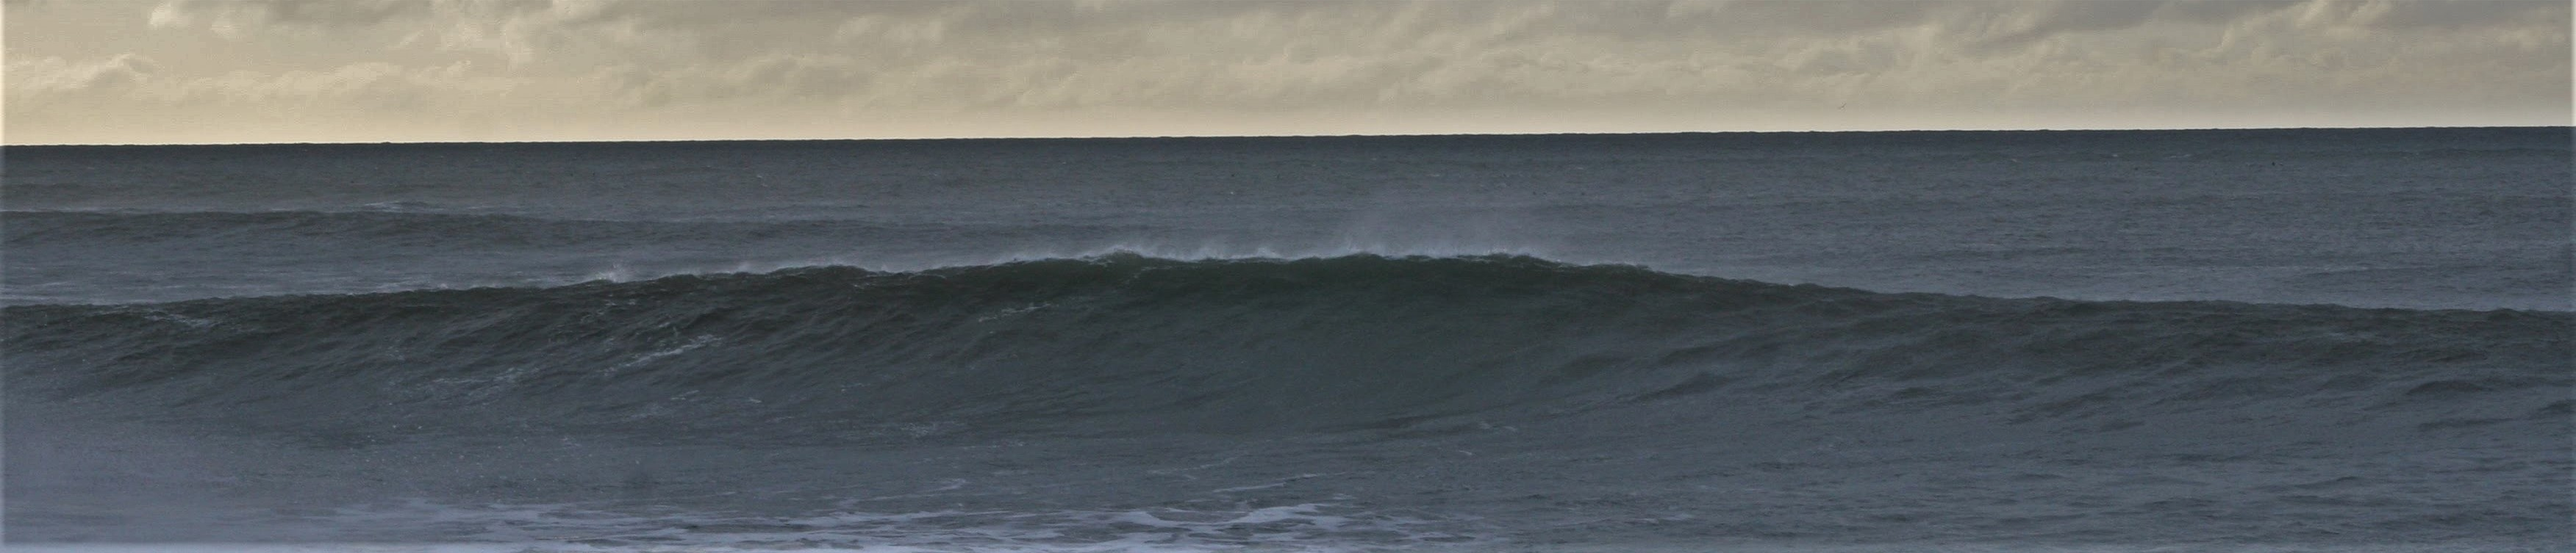
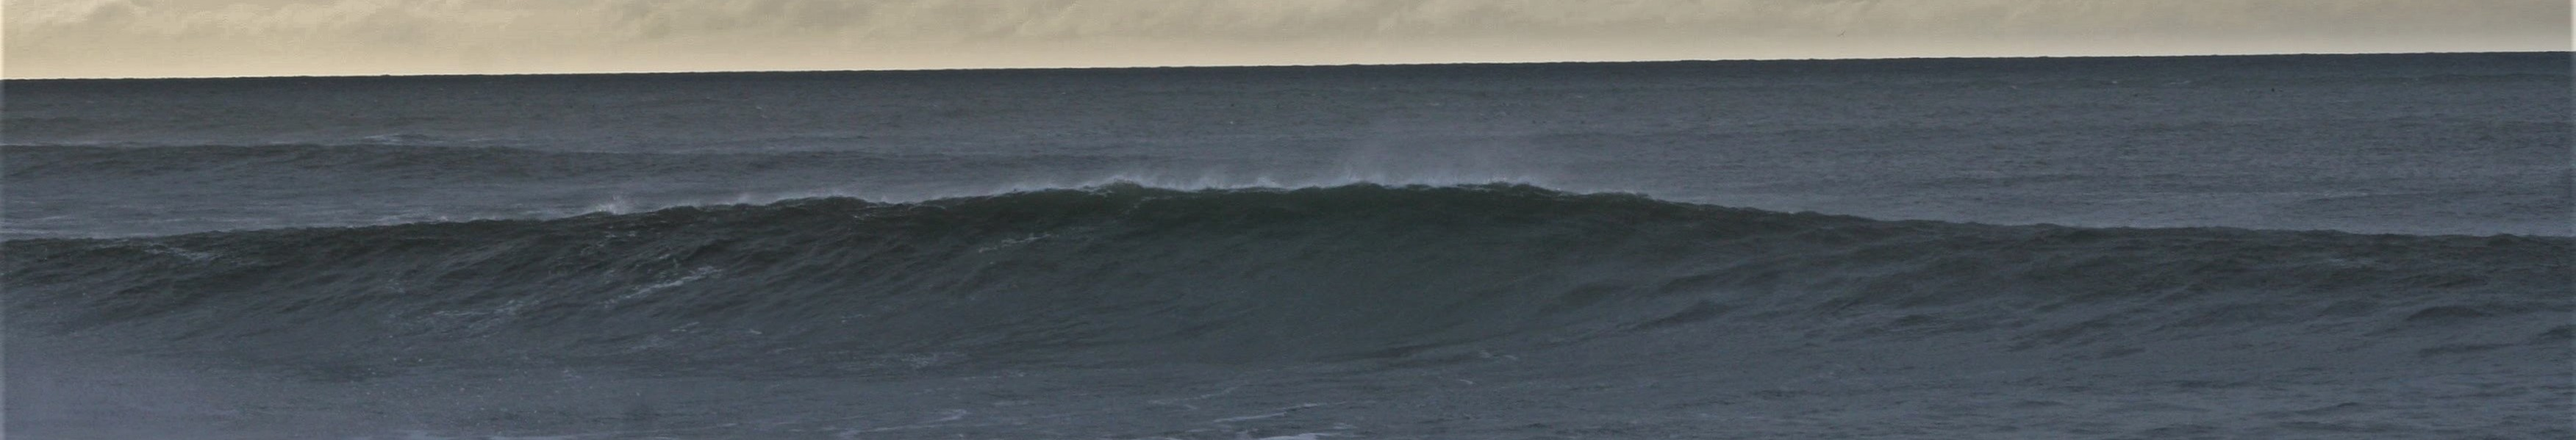
changes

diff --git a/index.html b/index.html
@@ -28,11 +28,11 @@ h1 {
     color: black;
     text-align: center;
 	font-family: Garamond;
-	font-size: 300%;
+    font-size: 10vh;
 	font-style: normal;
 	font-variant: small-caps;
 	font-weight: 700;
-	line-height: 42px;
+	line-height: 1vh;
     opacity: 1;
 }
 
@@ -40,11 +40,11 @@ h2 {
     color: black;
     text-align: center;
 	font-family: Garamond;
-	font-size: 150%;
+    font-size: 3vh;
 	font-style: normal;
 	font-variant: normal;
 	font-weight: 700;
-	line-height: 28.8px;
+	line-height: 3vh;
     opacity: 1;
 }
 
@@ -53,10 +53,18 @@ div.relative {
     clear:both; 
 }
 
-.img{
-   float: left;
-   margin-right: 1rem;
+img{
+    max-width: 100%;
+    max-height: 100%;
   }
+
+.imleft{
+        float: left;
+}
+
+.imright{
+        float: right;
+}
 
 body, html {
     width: 100%;
@@ -73,20 +81,17 @@ body, html {
    text-align: center;
 }
 
-.bg {
+div.wavehead {
     /* The image used */
-	background-image: url(IMG_4557.jpg);
-	text-align: center;
-
-
-    /* Full height */
-    width: 100%; 
-    height: 100vh;
-
-    /* Center and scale the image nicely */
-    background-position: top center;
+	background-image: url(IMG_4557b.jpg);
     background-repeat: no-repeat;
-    background-size: cover;
+    background-position: right center;
+    background-color: #D5D8DC;
+    border: 1px solid;
+    opacity: 1;
+    width: 98%;
+    height: 30vh;
+    background-size: contain;
 }
 
 div.transbox {
@@ -97,36 +102,41 @@ div.transbox {
   filter: alpha(opacity=40); /* For IE8 and earlier */
 }
 
+div.transbox p {
+  margin: 5%;
+  font-weight: bold;
+  color: #000000;
+  font-size: 44;
+   opacity: 1;
+}
+
 </style>
 </head>
 <body>
-<div class="bg">
+<div class="wavehead">
+    <img style="float:left;" src="Headshot_Humberston.jpg" alt="Josh Humberston"/>
+           <div margin:1rem"> <h1>Josh Humberston</h1>
+            <h2>
+            Ph.D. Student, Oceanography<br>
+            University of New Hampshire <br> 
+            Durham, NH <br>
+            This website is a work in progress (last updated: May 6, 2018)
+         </h2></div>
 
-<div class="transbox" style="float:left;margin:1rem">
-<h1>Josh Humberston</h1>
-<h2>
-Ph.D. Student, Oceanography<br>
-University of New Hampshire <br> 
-Durham, NH <br>
-This website is a work in progress (last updated: May 6, 2018)
-</h2>
 </div>
-<div style="float:left;margin:1rem"><img src="Headshot_Humberston.jpg" alt="Josh Humberston" height="250" width="250" /></div>
 
 <div class="relative" style="float:left;margin:1rem">
     <iframe align="center" width="560" height="315" src="https://www.youtube.com/embed/Hf875WCVV8Q" frameborder="0" allow="autoplay; encrypted-media" allowfullscreen></iframe>
     <p>This simple numerical model demonstrates how the linearized shallow water equations describe basic hydrodynamics in a realistic way.</p>
-</div>
 
 <div class="transbox" style="float:left;margin:1rem">
     <p>
+        <font size="6">
 My interests include:<br>
       - Nearshore Processes<br>
       - Coastal Morphodynamics<br>
-      - Coastal Remote Sensing<br>
+      - Coastal Remote Sensing<br></font>
 </p> 
-
- </div>
 </div>
 
 
